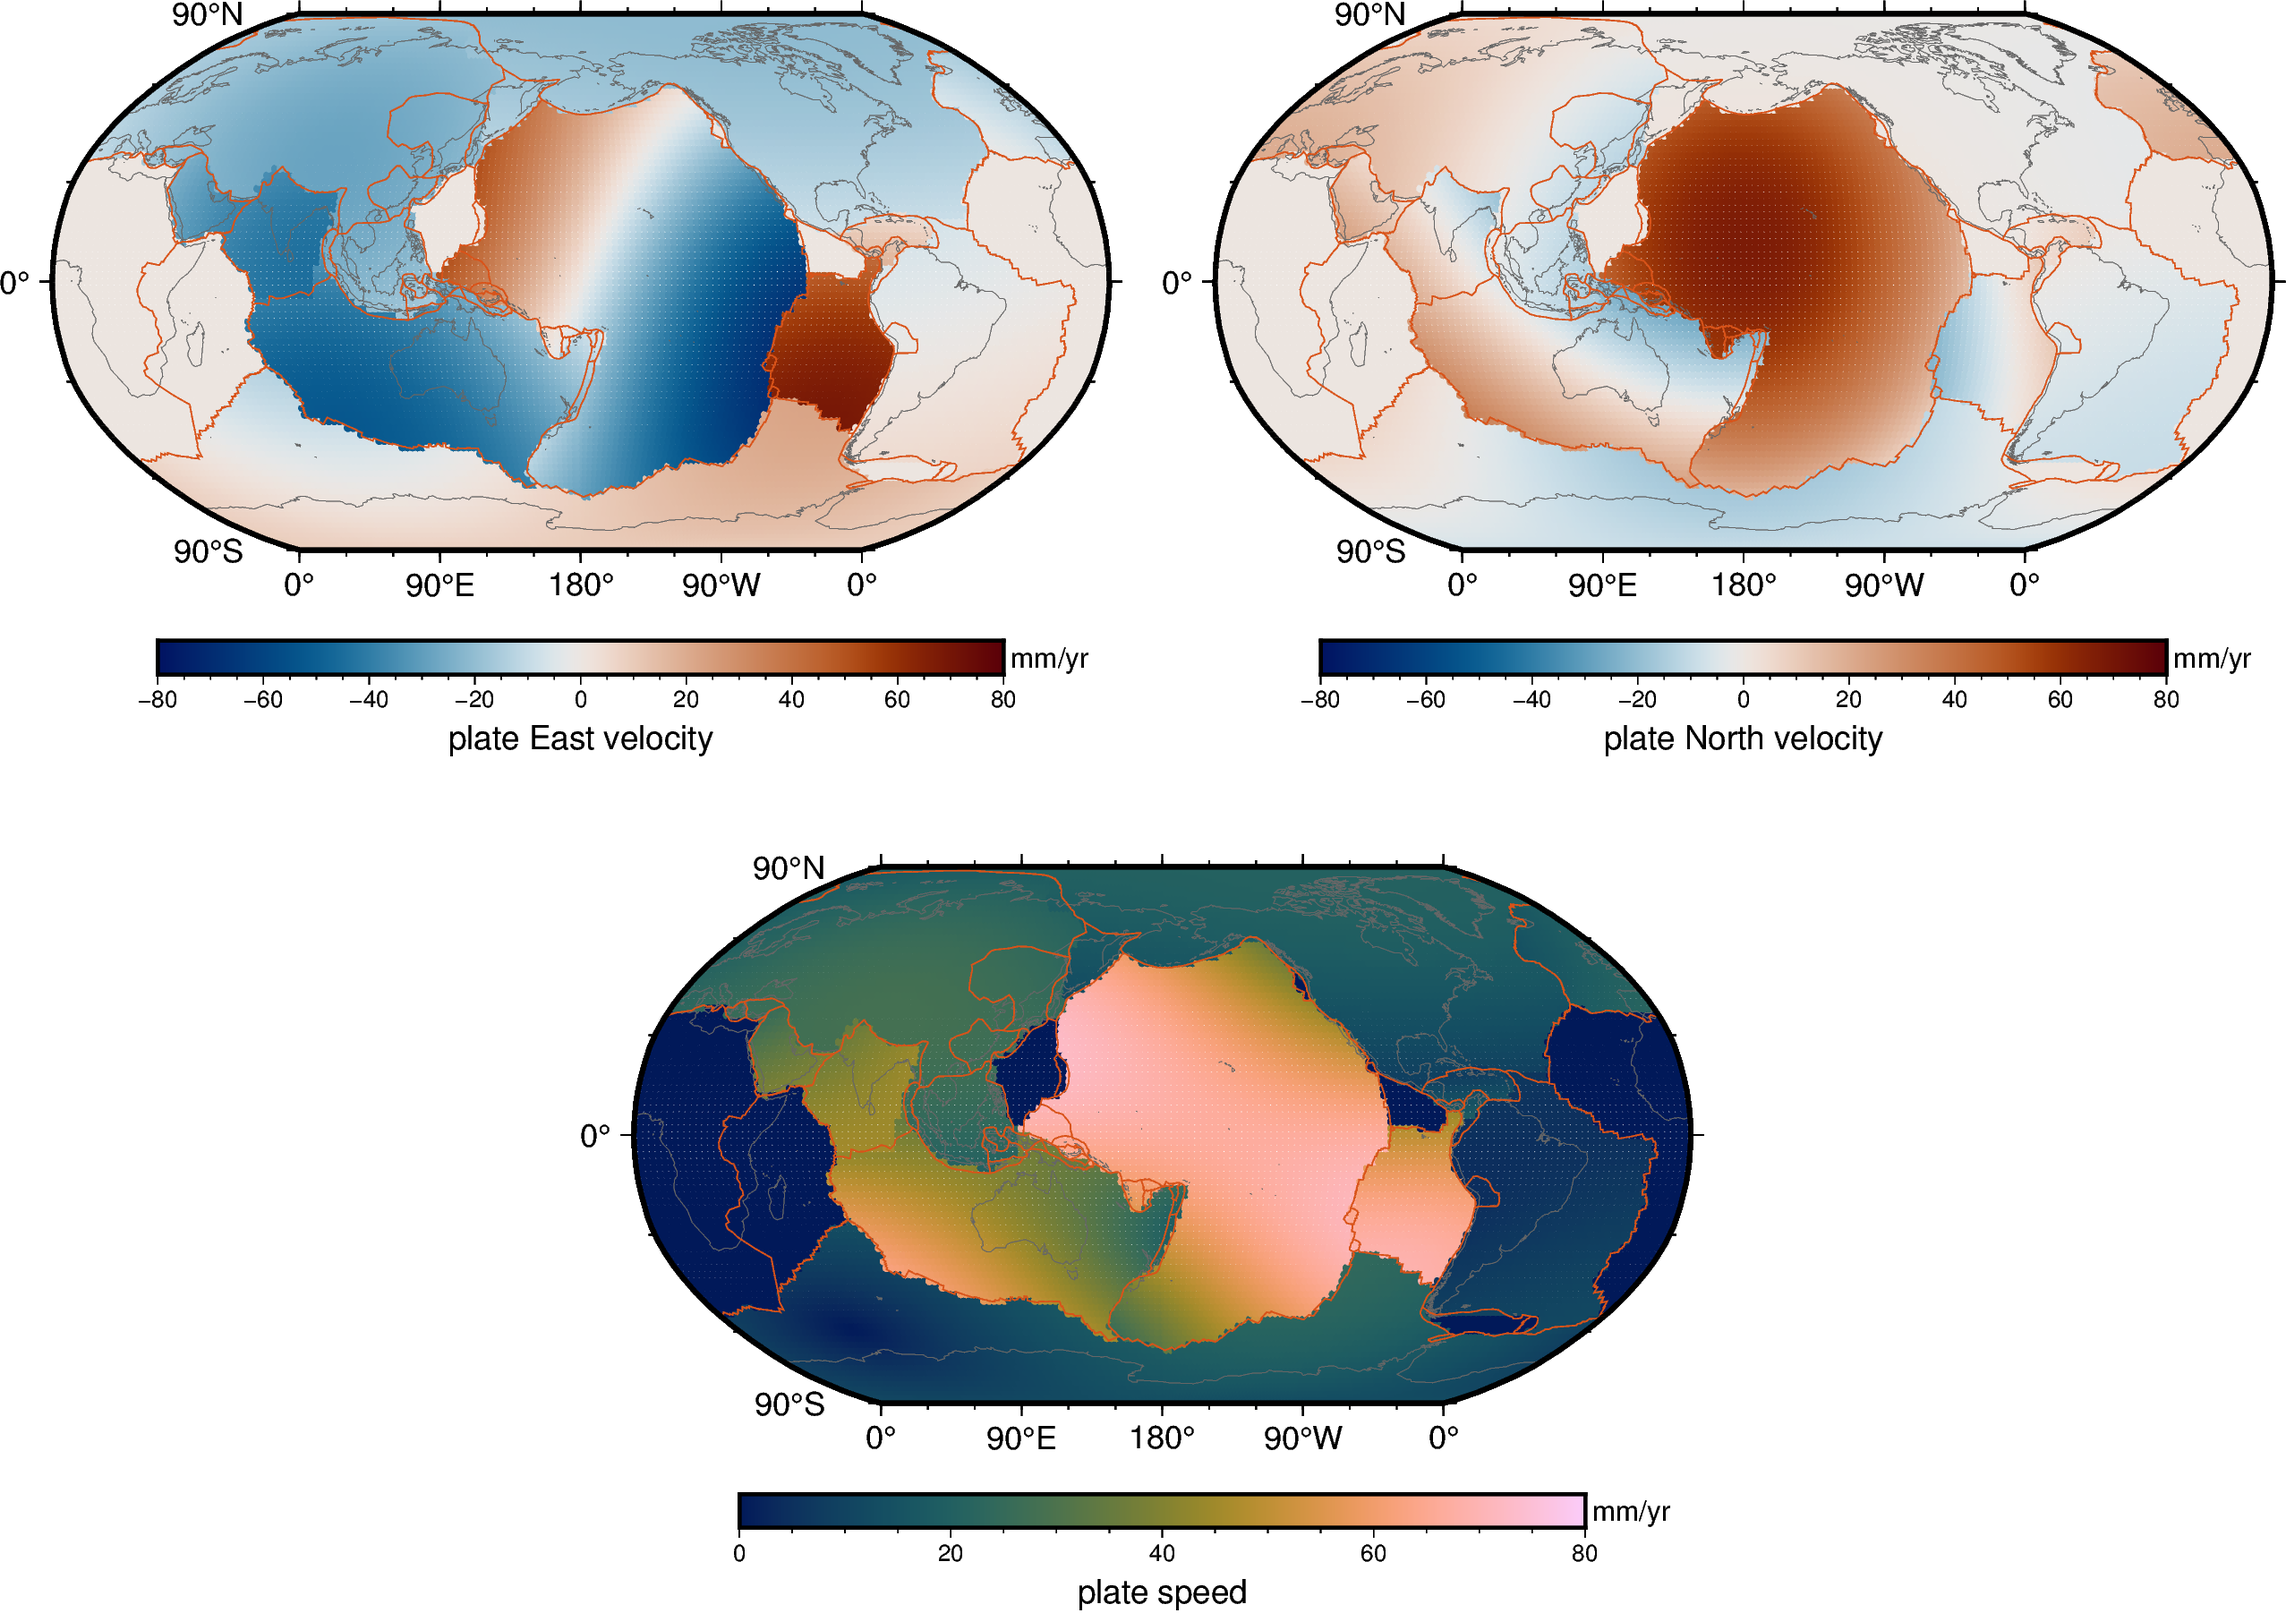
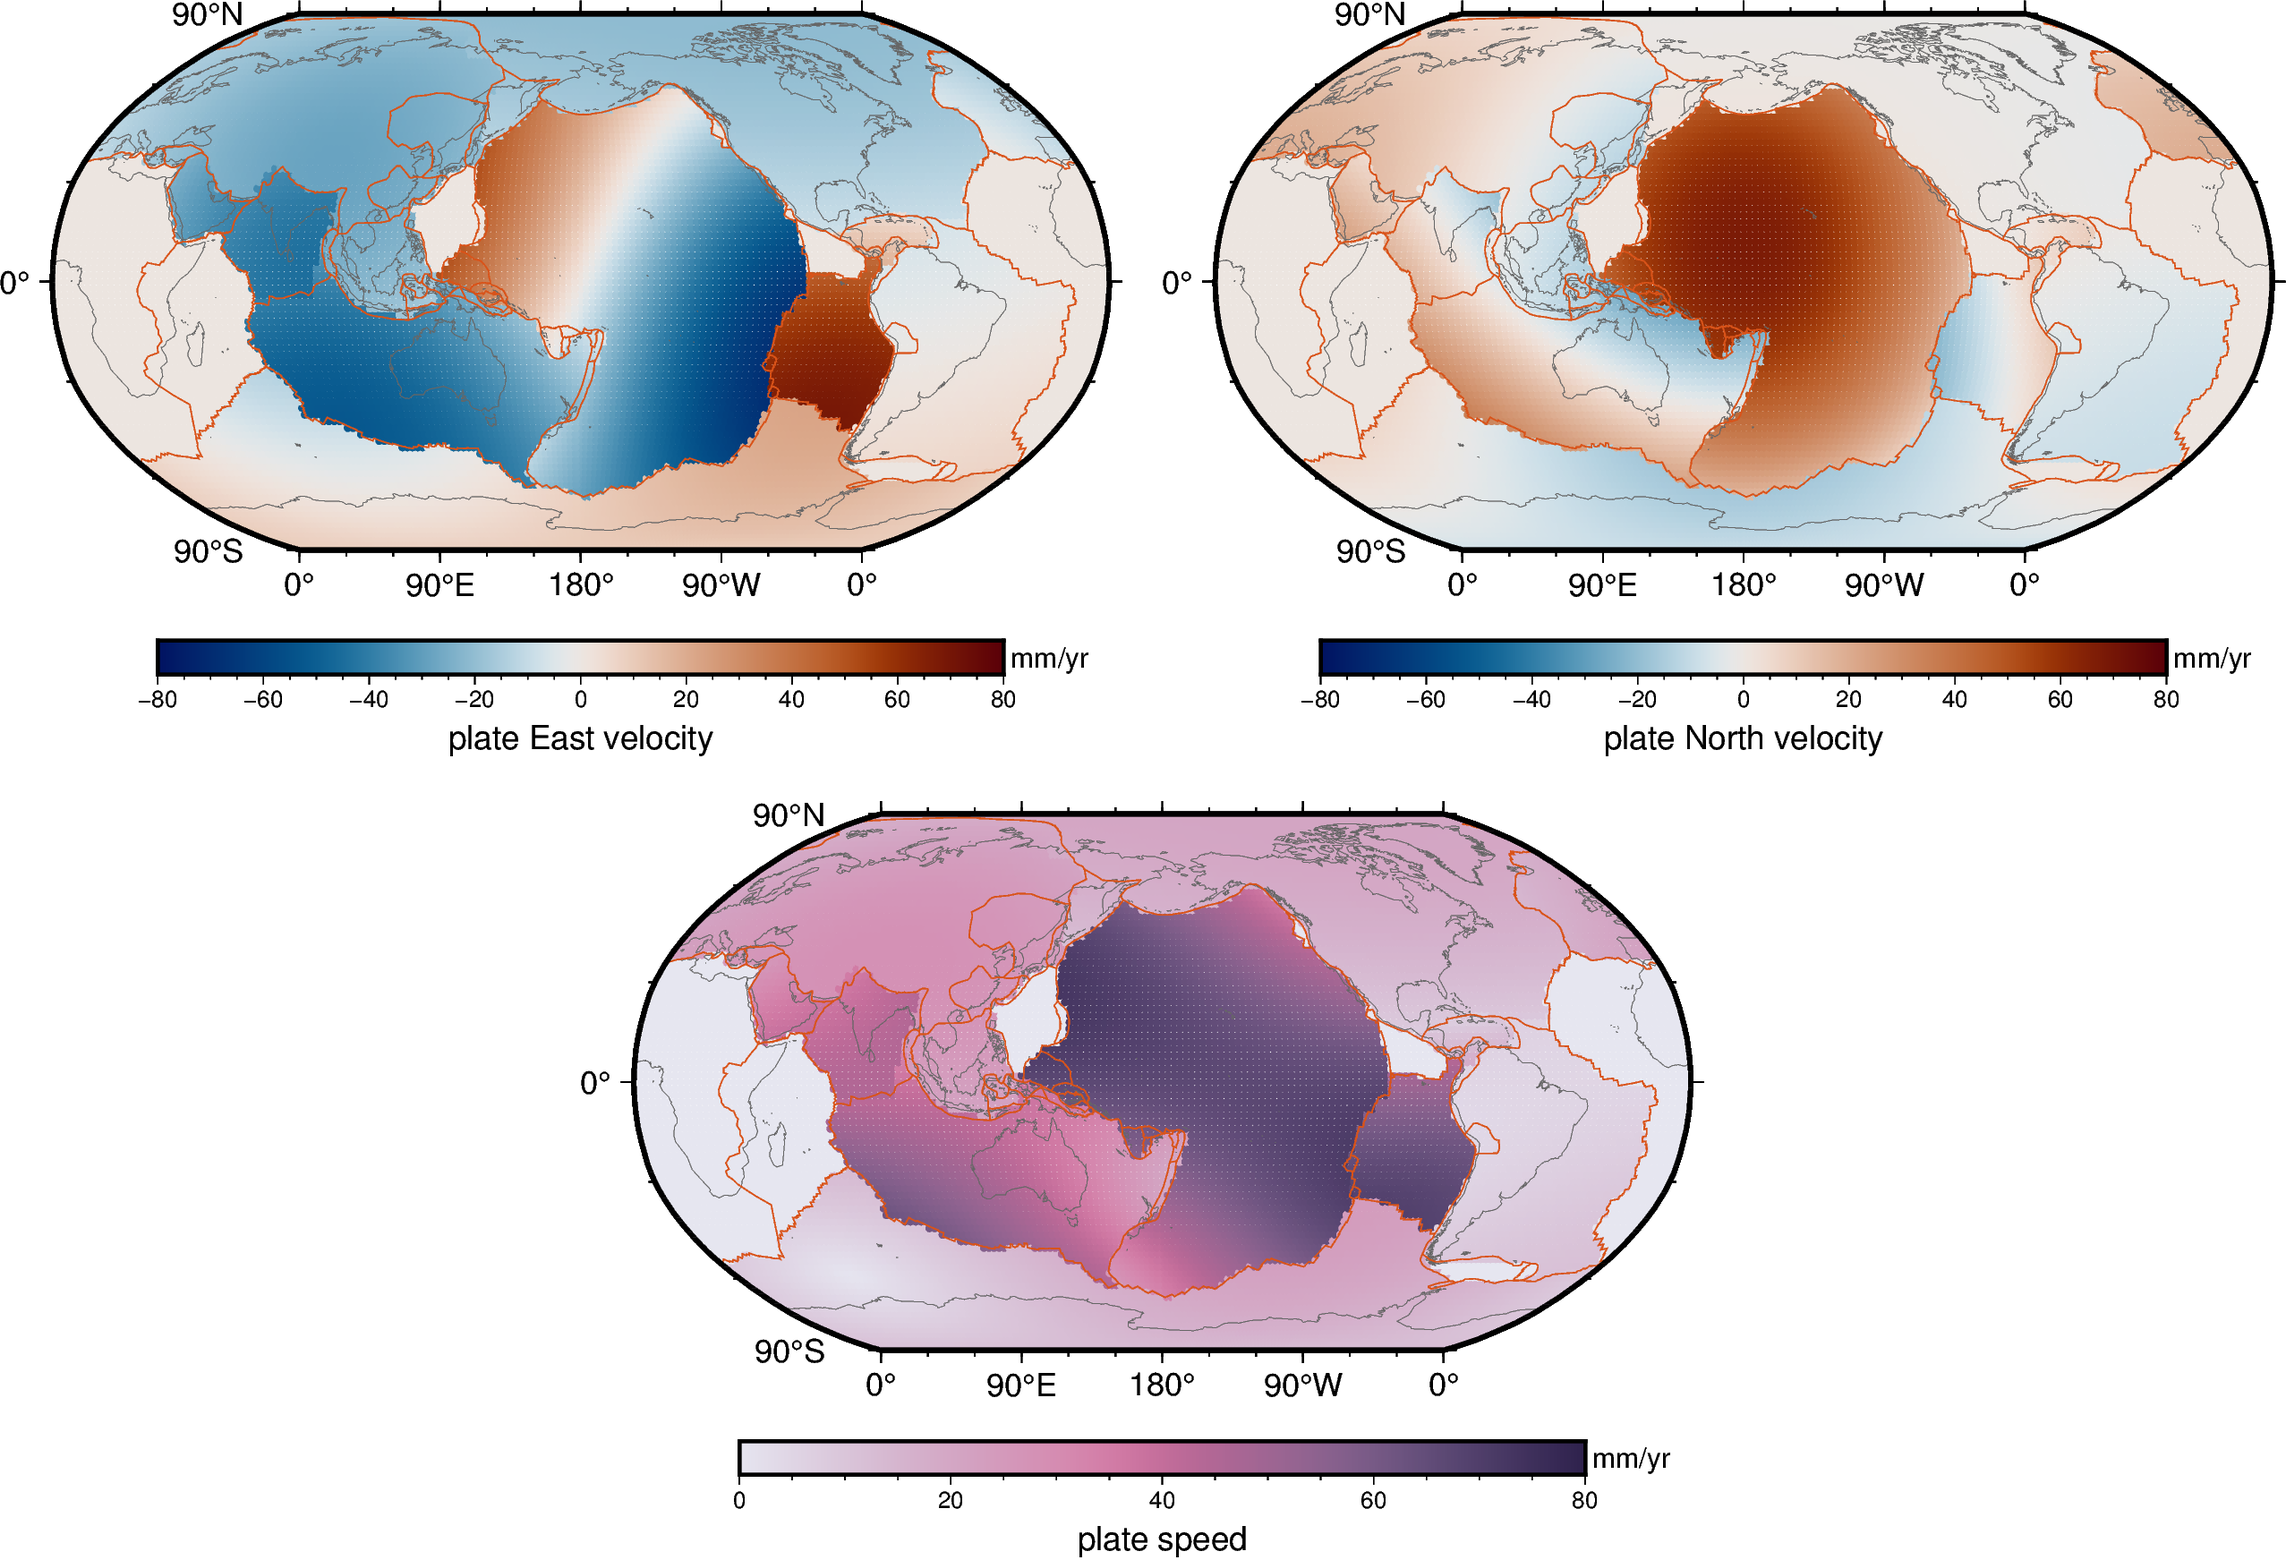
Adjust setting up colormaps

diff --git a/020_tectonic/01_plate_motion/map_plate_motion.py b/020_tectonic/01_plate_motion/map_plate_motion.py
@@ -46,9 +46,6 @@ path_out = "02_out_figs"
 color_pb = "216.750/82.875/24.990"  # plate boundaries
 color_sl = "gray40"  # shorelines
 
-# Region and projection
-args_basemap = {"region": "g", "projection": "N10c", "frame": 0}
-
 
 # %%
 # -----------------------------------------------------------------------------
@@ -67,16 +64,6 @@ df_motion["speed_mmyr"] = speed
 # Plate boundaries
 file_pb = "plate_boundaries_Bird_2003.txt"
 
-# -----------------------------------------------------------------------------
-# Colormaps
-cmap_speed = "batlow"
-cmap_speed_out = f"{path_in}/{cmap_speed}_speed.cpt"
-pygmt.makecpt(cmap=cmap_speed, series=[0, 80], output=cmap_speed_out)
-
-cmap_velocity = "vik"
-cmap_velocity_out = f"{path_in}/{cmap_velocity}_velocity.cpt"
-pygmt.makecpt(cmap=cmap_velocity, series=[-80, 80], output=cmap_velocity_out)
-
 
 # %%
 # -----------------------------------------------------------------------------
@@ -89,20 +76,20 @@ for motion, cb_label in zip(
     ["plate East velocity", "plate North velocity", "plate speed"]
 ):
 
-    cmap = cmap_velocity_out
+    pygmt.makecpt(cmap="vik", series=[-80, 80])
     if motion=="speed_mmyr":
-        cmap = cmap_speed_out
+        pygmt.makecpt(cmap="acton", series=[0, 80], reverse=True)
 
-    fig.basemap(**args_basemap)
+    fig.basemap(region="g", projection="N10c", frame=0)
 
     fig.plot(
         x=df_motion["longitude_degE"],
         y=df_motion["latitude_degN"],
         fill=df_motion[motion],
         style="c0.07c",
-        cmap=cmap,
+        cmap=True,
     )
-    fig.colorbar(cmap=cmap, frame=[f"xa20f5+l{cb_label}", "y+lmm/yr"])
+    fig.colorbar(frame=[f"xa20f5+l{cb_label}", "y+lmm/yr"])
 
     fig.coast(shorelines=f"1/0.01p,{color_sl}")
     fig.plot(data=f"{path_in}/{file_pb}", pen=f"0.3p,{color_pb}")
@@ -111,7 +98,7 @@ for motion, cb_label in zip(
 
     fig.shift_origin(xshift="w+1c")
     if motion=="Nvel_mmyr":
-        fig.shift_origin(xshift="-1.5w-1.5c", yshift="-h-3c")
+        fig.shift_origin(xshift="-1.5w-1.5c", yshift="-h-2.5c")
 
 # -----------------------------------------------------------------------------
 fig.show()
